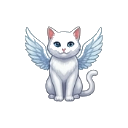
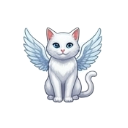
Fix White Cat crop and render Wild fire behind symbol

Changed region(s): [[0.1562, 0.1875, 0.8125, 0.8125]]

diff --git a/main.js b/main.js
@@ -64,7 +64,7 @@ class SlotScene extends Phaser.Scene{
  constructor(){super('SlotScene');this.symbols=[];this.overlays=[];this.fx=[];this.fireFx=[];this.grid=[];this.htmlSymbols=[];this.htmlGrid=null;this.idleGhosts=[];this.idleFrameStates=[];this.idleAnimationUpdate=null;this.payline=null;this.spinId=0;this.brightRestoreTimers=[];this.lastLayout={w:0,h:0}}
  preload(){setLoadingProgress(0);this.load.on('progress',value=>setLoadingProgress(value));this.load.once('complete',()=>setLoadingProgress(1));GAME_CONFIG.symbols.forEach(symbol=>{this.load.image(symbol.key,symbol.asset);if(symbol.winAsset)this.load.image(`${symbol.key}-bright`,symbol.winAsset);(symbol.animationFrames||[]).forEach((src,index)=>this.load.image(`${symbol.key}-idle-${index}`,src))});GAME_CONFIG.assets.winFrames.forEach(frame=>this.load.image(frame.key,frame.src))}
  create(){scene=this;this.makeGrid();this.idleFrameCursor={};const hasIdleFrames=GAME_CONFIG.symbols.some(symbol=>(symbol.animationFrames||[]).length>1),smoothIdle=Boolean(GAME_CONFIG.animations?.idle?.smooth);this.idleAnimationUpdate=hasIdleFrames&&smoothIdle?()=>this.advanceSmoothIdleFrames(performance.now()):null;if(this.idleAnimationUpdate)this.events.on('update',this.idleAnimationUpdate);this.idleAnimTimer=hasIdleFrames&&!smoothIdle?window.setInterval(()=>this.advanceIdleFrames(),850):null;const loadingPreview=GAME_CONFIG.id==='v8-road-king'&&new URLSearchParams(window.location.search).get('loading-preview')==='1';setLoadingProgress(loadingPreview?0.62:1);if(!loadingPreview)requestAnimationFrame(()=>setTimeout(finishLoading,220));this.scale.on('resize',()=>this.layout());this.layout();if(new URLSearchParams(window.location.search).has('win-fx-preview'))this.previewWinFx();this.events.on('shutdown',()=>{this.clearPayline();if(this.idleAnimTimer)window.clearInterval(this.idleAnimTimer);if(this.idleAnimationUpdate)this.events.off('update',this.idleAnimationUpdate);this.htmlGrid?.remove()})}
- makeGrid(){if(VISUAL_CONFIG.domSymbols){this.htmlGrid=document.createElement('div');this.htmlGrid.className='cleo-html-symbol-grid';this.htmlGrid.setAttribute('aria-hidden','true');$('reels').appendChild(this.htmlGrid)}const params=new URLSearchParams(window.location.search),symbolsPreview=GAME_CONFIG.id==='v8-road-king'&&params.get('symbols-preview')==='1',wildFirePreview=GAME_CONFIG.id==='good-girl-bad-girl'&&params.get('wild-fire-preview')==='1',wildIndex=GAME_CONFIG.symbols.findIndex(symbol=>symbol.key==='wild'),smoothIdle=Boolean(GAME_CONFIG.animations?.idle?.smooth)&&!this.htmlGrid,wildFireEnabled=Boolean(GAME_CONFIG.effects?.wildFire?.enabled);for(let i=0;i<COLS*ROWS;i++){const symbolIndex=wildFirePreview&&i===COLS+2?wildIndex:symbolsPreview?i%SYMBOL_KEYS.length:rand(),t=this.add.image(0,0,SYMBOL_KEYS[symbolIndex]).setOrigin(.5);if(this.htmlGrid)t.setVisible(false);const fire=wildFireEnabled?this.add.graphics().setDepth(-1).setVisible(false):null,ghost=smoothIdle?this.add.image(0,0,SYMBOL_KEYS[symbolIndex]).setOrigin(.5).setAlpha(0).setVisible(false).setDepth(1):null,glow=this.add.graphics().setDepth(20);glow.setVisible(false).setAlpha(0);const overlay=this.add.image(0,0,WIN_FRAMES[0]).setOrigin(.5).setAlpha(0);this.symbols.push(t);this.fireFx.push(fire);this.idleGhosts.push(ghost);this.idleFrameStates.push(null);this.fx.push(glow);this.overlays.push(overlay);this.grid.push(symbolIndex);if(this.htmlGrid){const img=document.createElement('img');img.className='cleo-html-symbol';this.htmlGrid.appendChild(img);this.htmlSymbols.push(img);this.updateHtmlSymbol(i,symbolIndex)}}}
+ makeGrid(){if(VISUAL_CONFIG.domSymbols){this.htmlGrid=document.createElement('div');this.htmlGrid.className='cleo-html-symbol-grid';this.htmlGrid.setAttribute('aria-hidden','true');$('reels').appendChild(this.htmlGrid)}const params=new URLSearchParams(window.location.search),symbolsPreview=GAME_CONFIG.id==='v8-road-king'&&params.get('symbols-preview')==='1',wildFirePreview=GAME_CONFIG.id==='good-girl-bad-girl'&&params.get('wild-fire-preview')==='1',whiteCatPreview=GAME_CONFIG.id==='good-girl-bad-girl'&&params.get('white-cat-preview')==='1',wildIndex=GAME_CONFIG.symbols.findIndex(symbol=>symbol.key==='wild'),whiteCatIndex=GAME_CONFIG.symbols.findIndex(symbol=>symbol.key==='white-cat'),smoothIdle=Boolean(GAME_CONFIG.animations?.idle?.smooth)&&!this.htmlGrid,wildFireEnabled=Boolean(GAME_CONFIG.effects?.wildFire?.enabled);for(let i=0;i<COLS*ROWS;i++){const symbolIndex=whiteCatPreview&&i===COLS+2?whiteCatIndex:wildFirePreview&&i===COLS+2?wildIndex:symbolsPreview?i%SYMBOL_KEYS.length:rand(),t=this.add.image(0,0,SYMBOL_KEYS[symbolIndex]).setOrigin(.5);if(this.htmlGrid)t.setVisible(false);const fire=wildFireEnabled?this.add.graphics().setDepth(-1).setVisible(false):null,ghost=smoothIdle?this.add.image(0,0,SYMBOL_KEYS[symbolIndex]).setOrigin(.5).setAlpha(0).setVisible(false).setDepth(1):null,glow=this.add.graphics().setDepth(20);glow.setVisible(false).setAlpha(0);const overlay=this.add.image(0,0,WIN_FRAMES[0]).setOrigin(.5).setAlpha(0);this.symbols.push(t);this.fireFx.push(fire);this.idleGhosts.push(ghost);this.idleFrameStates.push(null);this.fx.push(glow);this.overlays.push(overlay);this.grid.push(symbolIndex);if(this.htmlGrid){const img=document.createElement('img');img.className='cleo-html-symbol';this.htmlGrid.appendChild(img);this.htmlSymbols.push(img);this.updateHtmlSymbol(i,symbolIndex)}}}
  updateHtmlSymbol(index,symbolIndex,bright=false,frameOverride=null){const image=this.htmlSymbols[index],symbol=GAME_CONFIG.symbols[symbolIndex];if(!image||!symbol)return;const frames=symbol.animationFrames||[],frameIndex=frames.length>1?(frameOverride??this.idleFrameCursor?.[symbol.key]??0)%frames.length:0,state=bright&&symbol.winAsset?'bright':frames.length>1?`idle-${frameIndex}`:'normal',src=state==='bright'?symbol.winAsset:state.startsWith('idle-')?frames[frameIndex]:symbol.asset;if(image.dataset.symbol!==symbol.key||image.dataset.state!==state){image.src=src;image.dataset.symbol=symbol.key;image.dataset.state=state}image.alt=symbol.label||symbol.key}
  advanceIdleFrames(){if(spinning||resultLock)return;let changed=false;GAME_CONFIG.symbols.forEach(symbol=>{const frames=symbol.animationFrames||[];if(frames.length<2)return;this.idleFrameCursor[symbol.key]=((this.idleFrameCursor[symbol.key]||0)+1)%frames.length;changed=true});if(!changed)return;this.grid.forEach((symbolIndex,index)=>{const symbol=GAME_CONFIG.symbols[symbolIndex],frames=symbol?.animationFrames||[];if(frames.length<2||this.brightRestoreTimers[index])return;const frame=(this.idleFrameCursor[symbol.key]||0)%frames.length;this.symbols[index].setTexture(`${symbol.key}-idle-${frame}`);this.updateHtmlSymbol(index,symbolIndex,false)})}
  advanceSmoothIdleFrames(now){this.updateWildFire(now);if(spinning||resultLock)return;const config=GAME_CONFIG.animations?.idle||{},intervalMs=Math.max(1,Number(config.intervalMs??180)),transitionMs=Math.max(1,Number(config.transitionMs??170)),staggerMs=Math.max(0,Number(config.staggerMs??110));this.grid.forEach((symbolIndex,index)=>{const symbol=GAME_CONFIG.symbols[symbolIndex],frames=symbol?.animationFrames||[],image=this.symbols[index],ghost=this.idleGhosts[index];if(frames.length<2||!image||!ghost||this.brightRestoreTimers[index])return;let state=this.idleFrameStates[index];if(!state){state={frame:0,nextAt:now+Math.random()*intervalMs};this.idleFrameStates[index]=state}if(now<state.nextAt)return;const nextFrame=(state.frame+1)%frames.length;this.tweens.killTweensOf(image);this.tweens.killTweensOf(ghost);ghost.setTexture(`${symbol.key}-idle-${state.frame}`).setPosition(image.x,image.y).setScale(image.scaleX,image.scaleY).setAlpha(1).setVisible(true);image.setTexture(`${symbol.key}-idle-${nextFrame}`).setAlpha(0);this.tweens.add({targets:image,alpha:1,duration:transitionMs,ease:'Sine.easeInOut'});this.tweens.add({targets:ghost,alpha:0,duration:transitionMs,ease:'Sine.easeInOut',onComplete:()=>ghost.setVisible(false)});state.frame=nextFrame;state.nextAt=now+intervalMs+Math.random()*staggerMs;this.updateHtmlSymbol(index,symbolIndex,false,nextFrame)})}

diff --git a/themes/good-girl-bad-girl.js b/themes/good-girl-bad-girl.js
@@ -5,7 +5,7 @@
   {key:'good-girl',label:'Good Girl',category:'reel',asset:asset('good-girl-smile'),animationFrames:[asset('good-girl-smile'),asset('good-girl-happy')]},
   {key:'bad-girl',label:'Bad Girl',category:'reel',asset:asset('bad-girl-devil'),animationFrames:[asset('bad-girl-devil'),asset('bad-girl-devil-2'),asset('bad-girl-devil-3')]},
   {key:'black-devil-cat',label:'Black Devil Cat',category:'reel',asset:asset('black-devil-cat')},
-  {key:'white-cat',label:'White Cat',category:'reel',asset:asset('white-cat')},
+  {key:'white-cat',label:'White Cat',category:'reel',asset:`${asset('white-cat')}?v=white-cat-headfix-20261015-1`},
   {key:'good-lyre',label:'Lyre',category:'reel',asset:asset('good-lyre')},
   {key:'letter-9',label:'9',category:'reel',asset:asset('letter-9')},
   {key:'letter-10',label:'10',category:'reel',asset:asset('letter-10')},

diff --git a/good-girl-bad-girl.html b/good-girl-bad-girl.html
@@ -58,8 +58,8 @@
     </div>
   </div>
   <script src="phaser.min.js?v=4.2.1"></script>
-  <script src="themes/good-girl-bad-girl.js?v=ggbg-wildfire-visible-20261014-2"></script>
-  <script src="main.js?v=ggbg-wildfire-behind-20261015-7"></script>
+  <script src="themes/good-girl-bad-girl.js?v=ggbg-white-cat-headfix-20261015-1"></script>
+  <script src="main.js?v=ggbg-wildfire-behind-20261015-8"></script>
   <script src="themes/good-girl-bad-girl-fullscreen.js?v=ggbg-mobile-fullscreen-20261015-1"></script>
 </body>
 </html>
